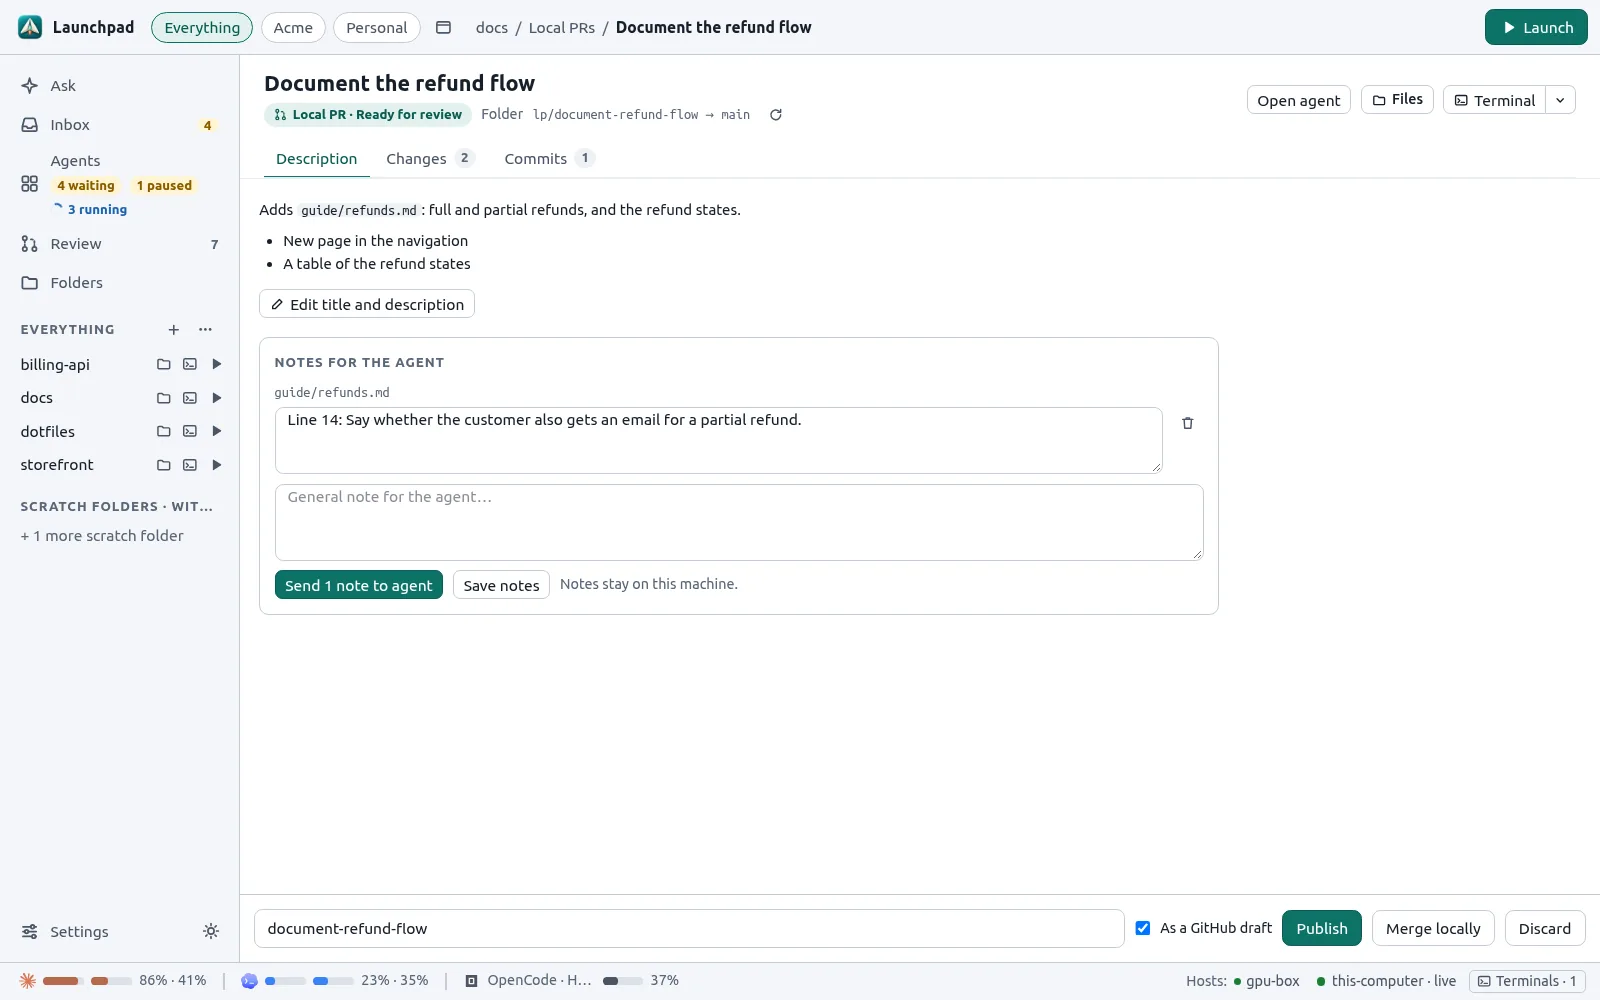
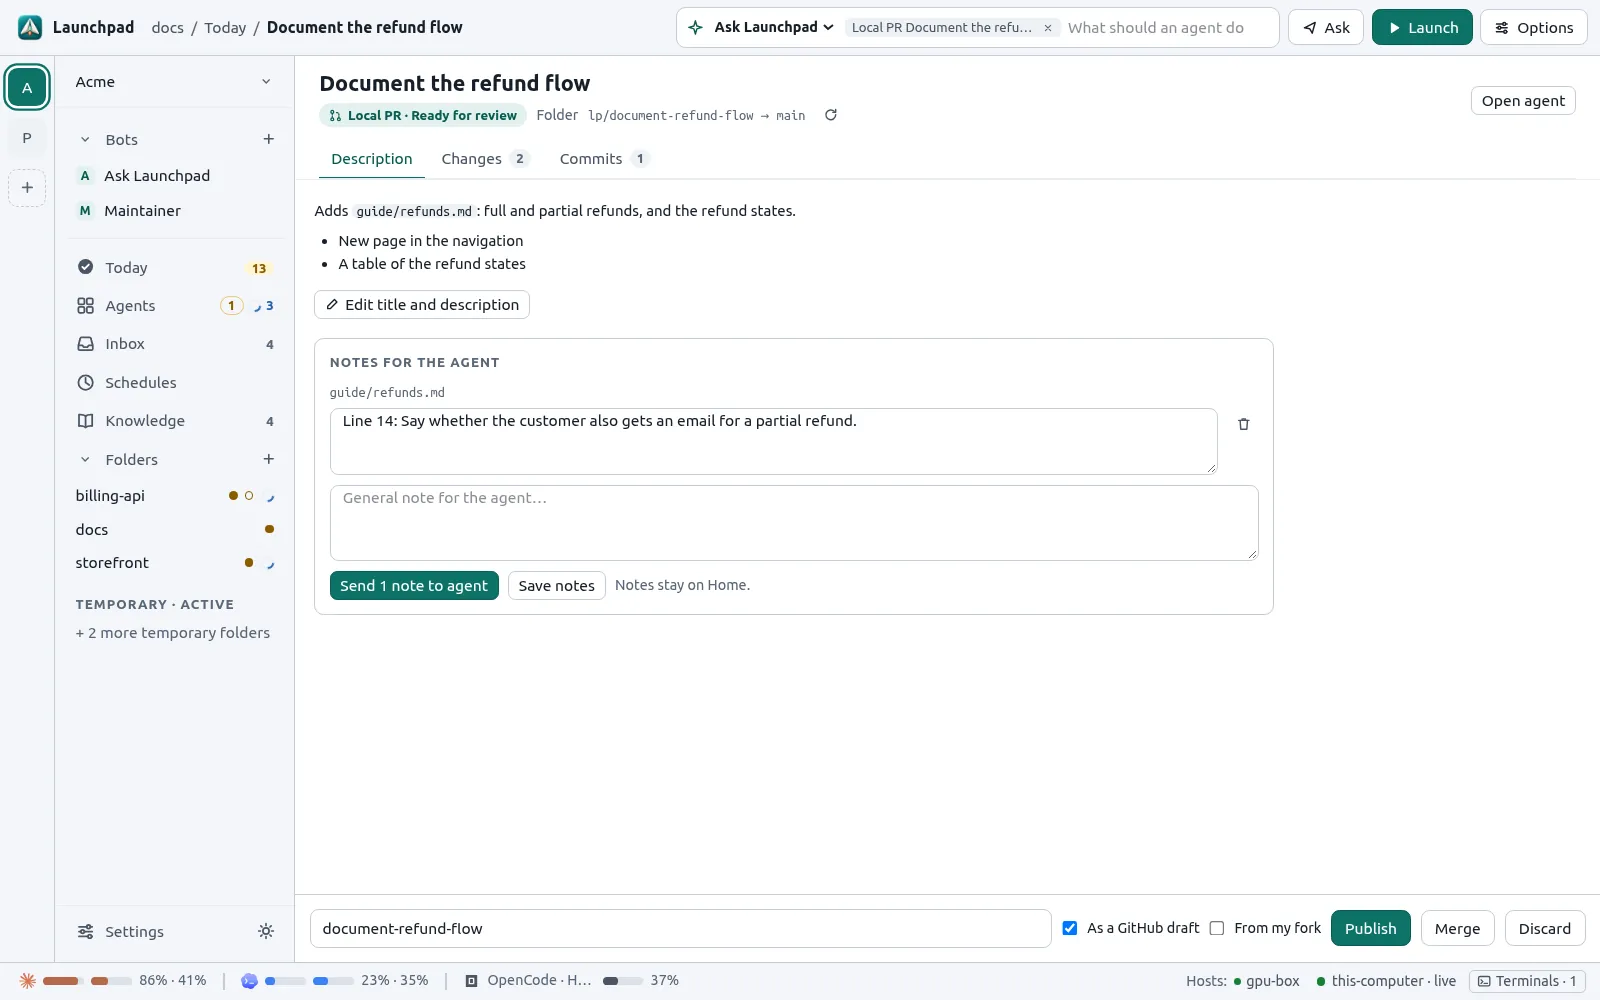
Docs: refresh screenshots for the new layout

diff --git a/docs/agents.md b/docs/agents.md
@@ -2,7 +2,7 @@
 
 An agent session is one conversation with a coding agent, in one folder. Launchpad starts it, streams its output, keeps its history in a local database and lets you answer, steer, resume or archive it.
 
-![A Done session: Summary with run facts, the first prompt and the final message](images/session.webp)
+![A Done session: the final message, next steps and Merge into main as the main action](images/session.webp)
 
 ## Harnesses
 
@@ -173,7 +173,7 @@ For pay-as-you-go profiles that report costs (Claude Code, OpenCode), set a USD 
 
 **Ask** in the top bar sends your text, with the page as context, to the workspace's default bot: the oldest bot with admin access (Ask Launchpad unless you changed it), else the oldest bot. The bot's chat opens in the **Ask panel** at the right of the page; its menu picks another bot of the workspace, and on a bot's page Ask talks to that bot. The panel has **New session**, a link to the bot's page and **Close**.
 
-![Ask Launchpad with two proposals](images/ask.webp)
+![The Ask panel: an answer and a proposed launch](images/ask.webp)
 
 Any agent granted the Launchpad CLI tool can propose cards too; they wait in Today → Approve and in the session that wrote them; handled cards are in Today → Done. **Add tool** asks you to confirm, then you paste the tool's token. **Edit** moves a proposal into the composer and replaces the card ("Edited in the composer"). **Start all** (in Today and on a bot's Proposals tab) and **Dismiss all** (on a bot's Proposals tab) act on every waiting card after one confirmation.
 

diff --git a/README.md b/README.md
@@ -2,7 +2,7 @@
 
 Launchpad is a desktop app to launch, follow and review coding agents (Claude Code, Codex and OpenCode), with a fast local-first GitHub client built in. It runs on Linux, macOS and Windows, and works from a phone or any browser you pair with it.
 
-![The Agents view: running agents and quota usage](docs/images/agents.webp)
+![Today: questions, finished agents and other decisions, one card each](docs/images/today.webp)
 
 ## Why Launchpad
 
@@ -18,7 +18,7 @@ Launchpad is a desktop app to launch, follow and review coding agents (Claude Co
 <table>
   <tr>
     <td width="66%"><img src="docs/images/session-dark.webp" alt="A running agent: live trace with tool calls and diffs"></td>
-    <td><img src="docs/images/phone-now.webp" alt="The phone layout, with answer buttons"></td>
+    <td><img src="docs/images/phone-today.webp" alt="Today on a phone, with answer buttons and the tab bar"></td>
   </tr>
 </table>
 

diff --git a/docs/github.md b/docs/github.md
@@ -8,7 +8,7 @@ Sign in with `gh auth login` on the machine that runs the daemon. Launchpad read
 
 ## Inbox
 
-![The Inbox with reason filters and a preview](images/inbox.webp)
+![The Inbox with reason filters, Done on each row and a preview](images/inbox.webp)
 
 - The Inbox (`/inbox`) lists the notifications of the workspace's repositories. Notifications of a repository that has no folder appear in no Inbox: **Settings → GitHub → Repositories without a folder** lists those repositories with their notification count and last activity, with **Add to ▾** (clone it as a folder of a workspace) and **Open on GitHub**.
 - Filter by reason: **Review requested**, **Mentioned**, **Assigned**, **Subscribed** or **All**, plus **Unread only** and a repository filter.

diff --git a/docs/getting-started.md b/docs/getting-started.md
@@ -90,7 +90,7 @@ Home starts with one workspace, **Personal**; the rail at the left edge shows yo
 3. Choose the folder. The options line under the prompt says where the agent runs, for example "New worktree from main · keep branch": in Git folders, a new worktree (the default) gives the agent its own branch. Click the line to change **Run in**, **From** or **When done**.
 4. Click **Launch**.
 
-![The New agent composer](images/composer.webp)
+![The New agent composer with its options line](images/composer.webp)
 
 The agent appears in **Agents → Running**. When it finishes, a card waits in **Today** until you have looked at it or merged its branch. See [Agents](agents.md) for everything that happens next.
 

diff --git a/docs/remote-access.md b/docs/remote-access.md
@@ -78,8 +78,8 @@ Screens narrower than 720 px get a phone layout (or choose it in **Settings → 
 
 <table>
   <tr>
-    <td><img src="images/phone-now.webp" alt="The phone layout" width="300"></td>
-    <td><img src="images/phone-session.webp" alt="A session on a phone" width="300"></td>
+    <td><img src="images/phone-today.webp" alt="Today on a phone" width="300"></td>
+    <td><img src="images/phone-session.webp" alt="A session on a phone, with Reply and Merge into main" width="300"></td>
   </tr>
 </table>
 
